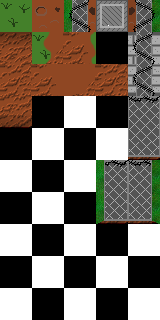
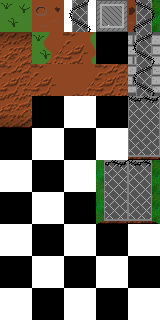
Changed Guard Boss Level

Changed region(s): [[0.5312, 0.0, 0.625, 0.125], [0.375, 0.0, 0.4688, 0.125]]

diff --git a/tiles_map/terrainSet.tsx b/tiles_map/terrainSet.tsx
@@ -1,6 +1,6 @@
 <?xml version="1.0" encoding="UTF-8"?>
-<tileset name="Terrain_set" tilewidth="32" tileheight="32" tilecount="50" columns="5">
- <image source="img/empty_set.png" width="160" height="320"/>
+<tileset name="Terrain_set" tilewidth="32" tileheight="32" tilecount="55" columns="5">
+ <image source="img/empty_set.png" width="160" height="352"/>
  <terraintypes>
   <terrain name="Plancher" tile="19"/>
  </terraintypes>
@@ -17,4 +17,16 @@
  <tile id="17" terrain="0,,,"/>
  <tile id="18" terrain="0,,0,0"/>
  <tile id="19" terrain=",0,0,0"/>
+ <tile id="31">
+  <animation>
+   <frame tileid="38" duration="100"/>
+   <frame tileid="31" duration="100"/>
+  </animation>
+ </tile>
+ <tile id="32">
+  <animation>
+   <frame tileid="32" duration="300"/>
+   <frame tileid="43" duration="100"/>
+  </animation>
+ </tile>
 </tileset>
